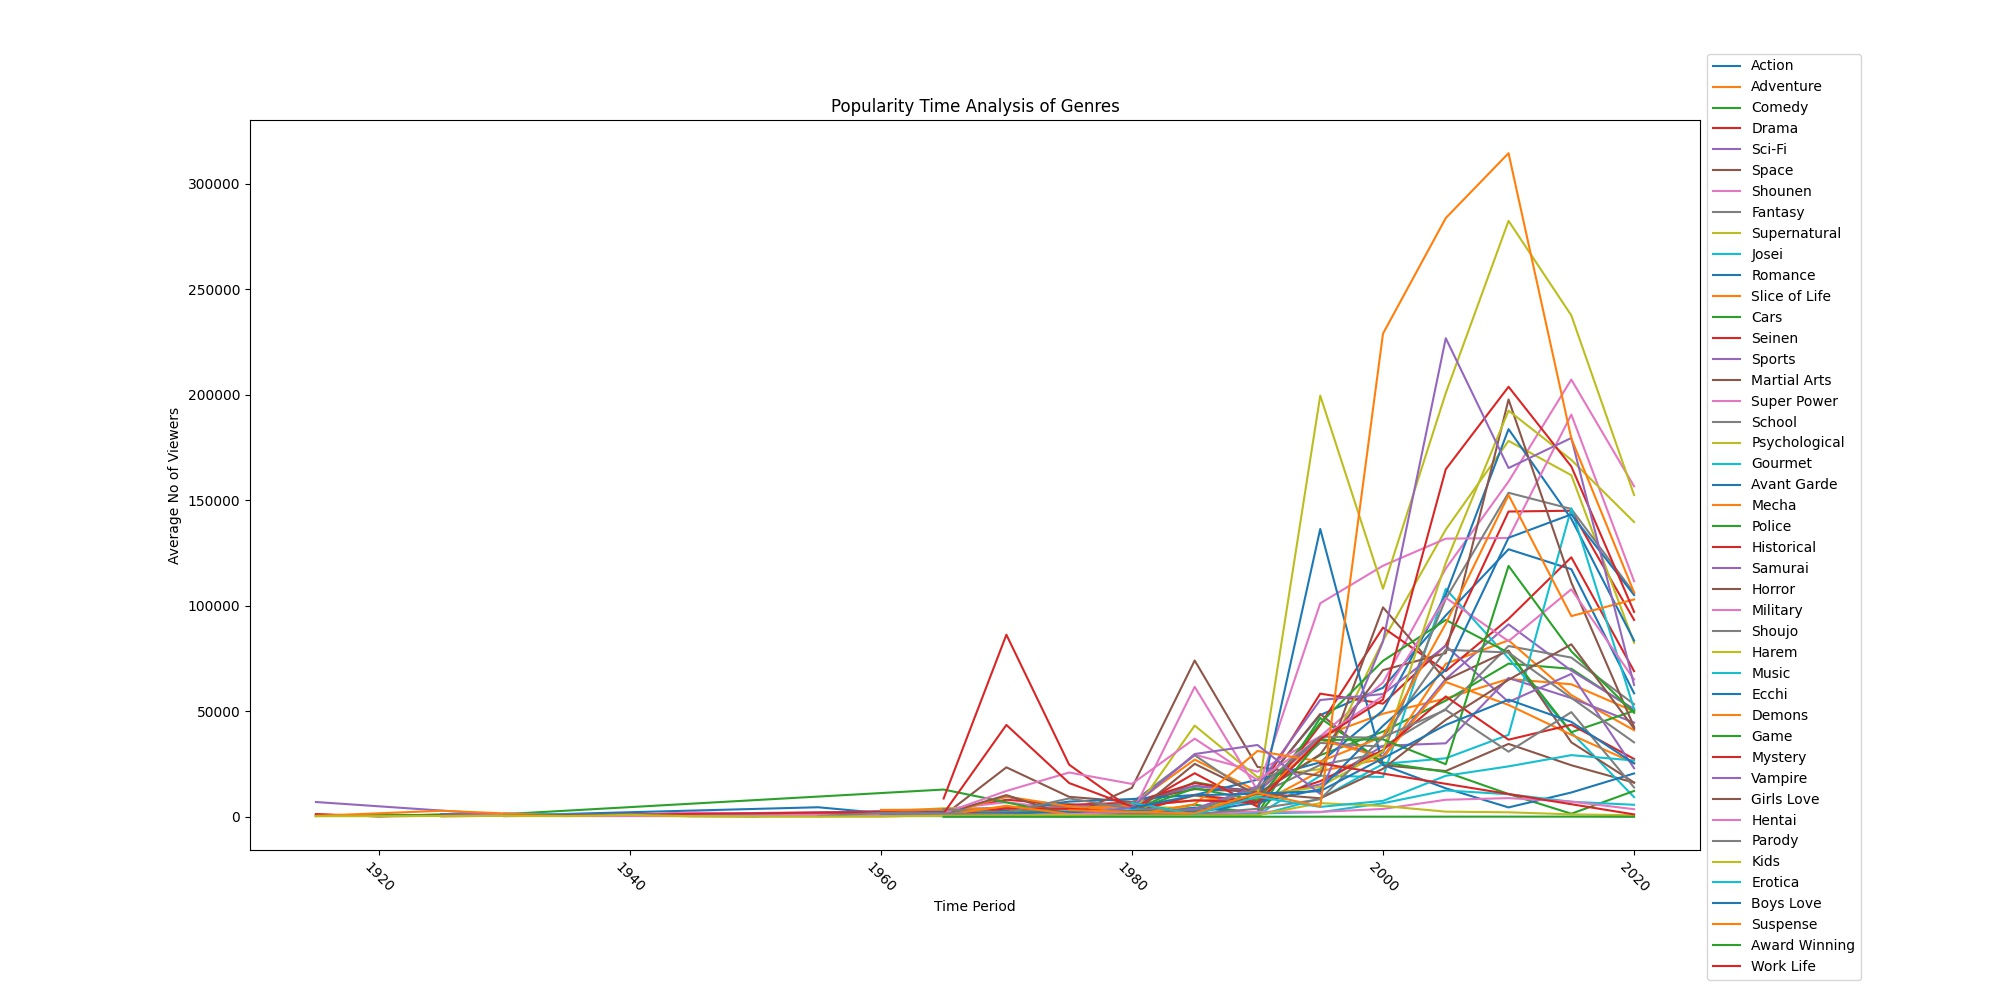
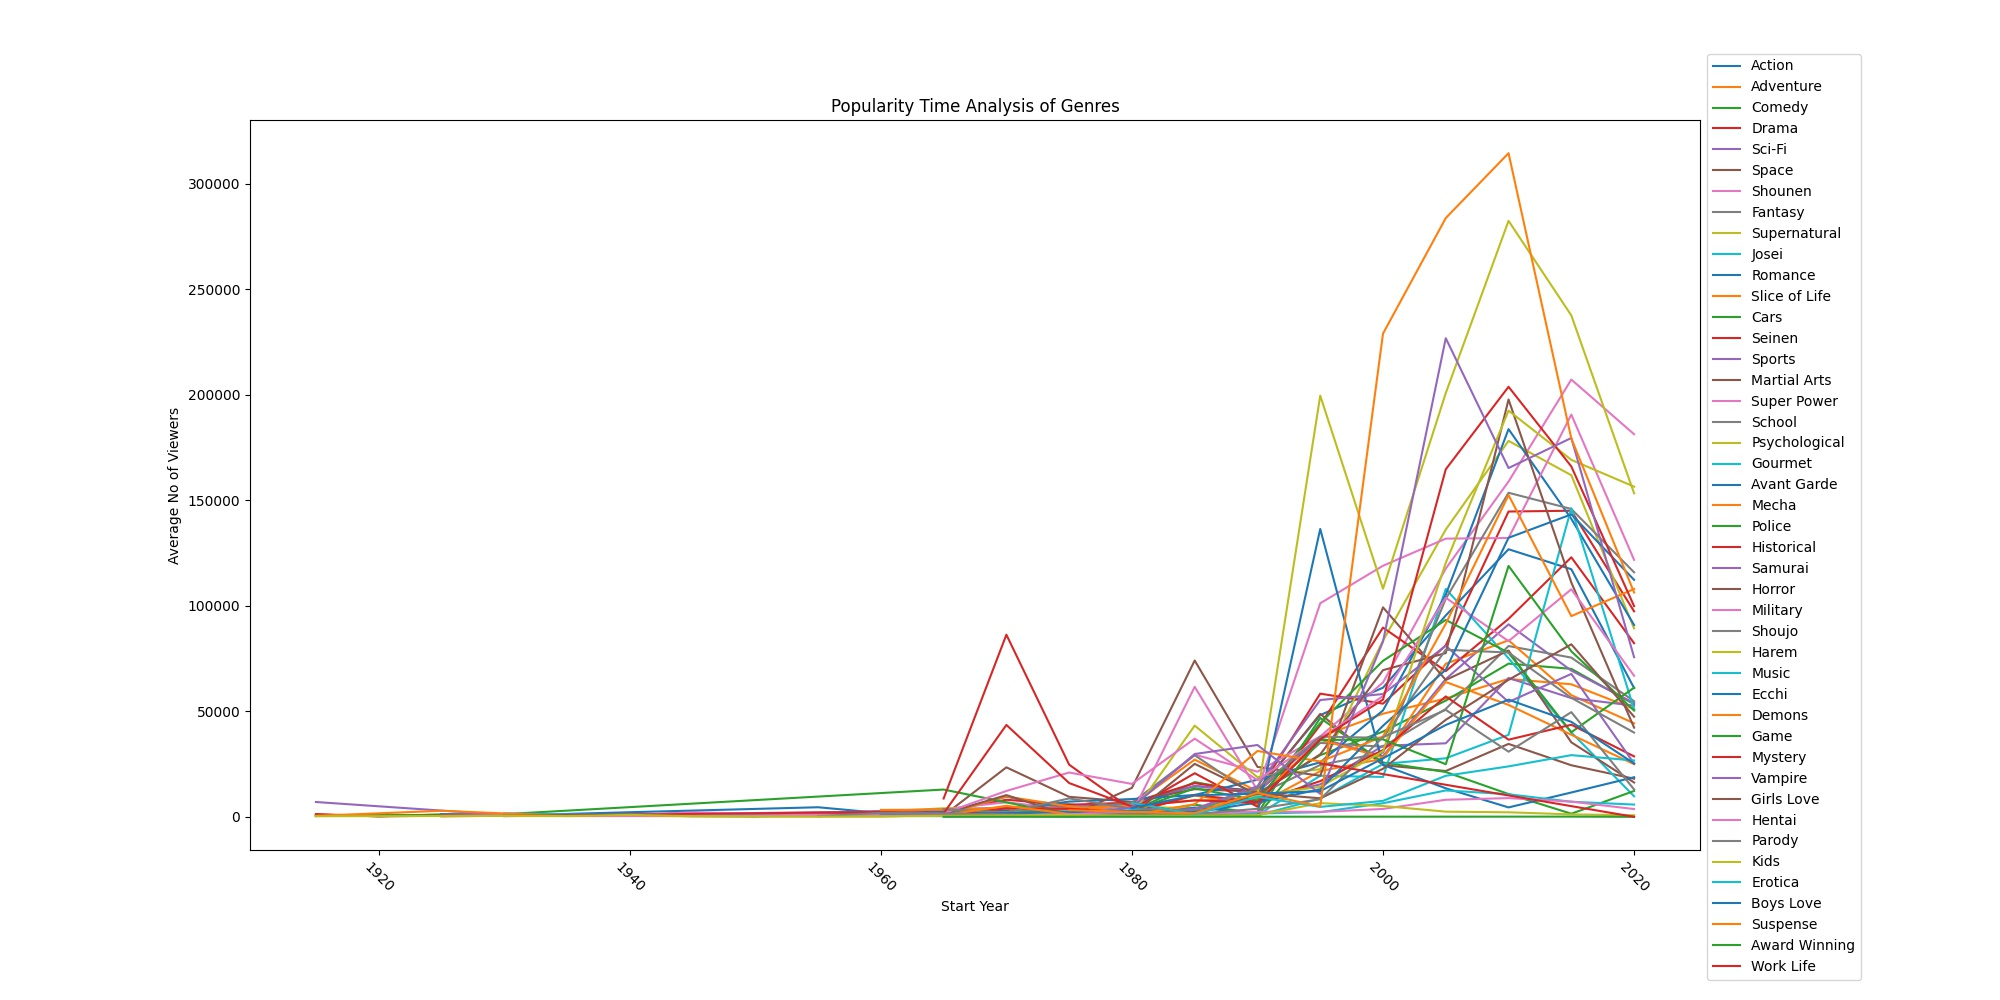
Removed anime with start year 2022

Changed region(s): [[0.713, 0.372, 0.837, 0.806], [0.465, 0.899, 0.496, 0.93]]

diff --git a/genre_pop_time_analysis.py b/genre_pop_time_analysis.py
@@ -22,6 +22,7 @@ df['start_date'] = pd.to_datetime(df['start_date'])
 df['start_date'] = df['start_date'].dt.year
 df.dropna(inplace=True)
 df['start_date'] = df['start_date'].astype(int)
+df = df[df['start_date'] < 2022]
 df['start_date'] = (df['start_date']//5)*5
 
 # get list of genres
@@ -36,7 +37,7 @@ for genre in genre_list:
     df_genre_group.plot( x='start_date' , y='num_list_users', rot=-45, ax=ax, figsize=(25,10))
 
 plt.legend(genre_list, bbox_to_anchor=(1,1.1))
-plt.xlabel('Time Period')
+plt.xlabel('Start Year')
 plt.ylabel('Average No of Viewers')
 plt.title('Popularity Time Analysis of Genres')
 plt.subplots_adjust(bottom=0.15, right=0.85)
